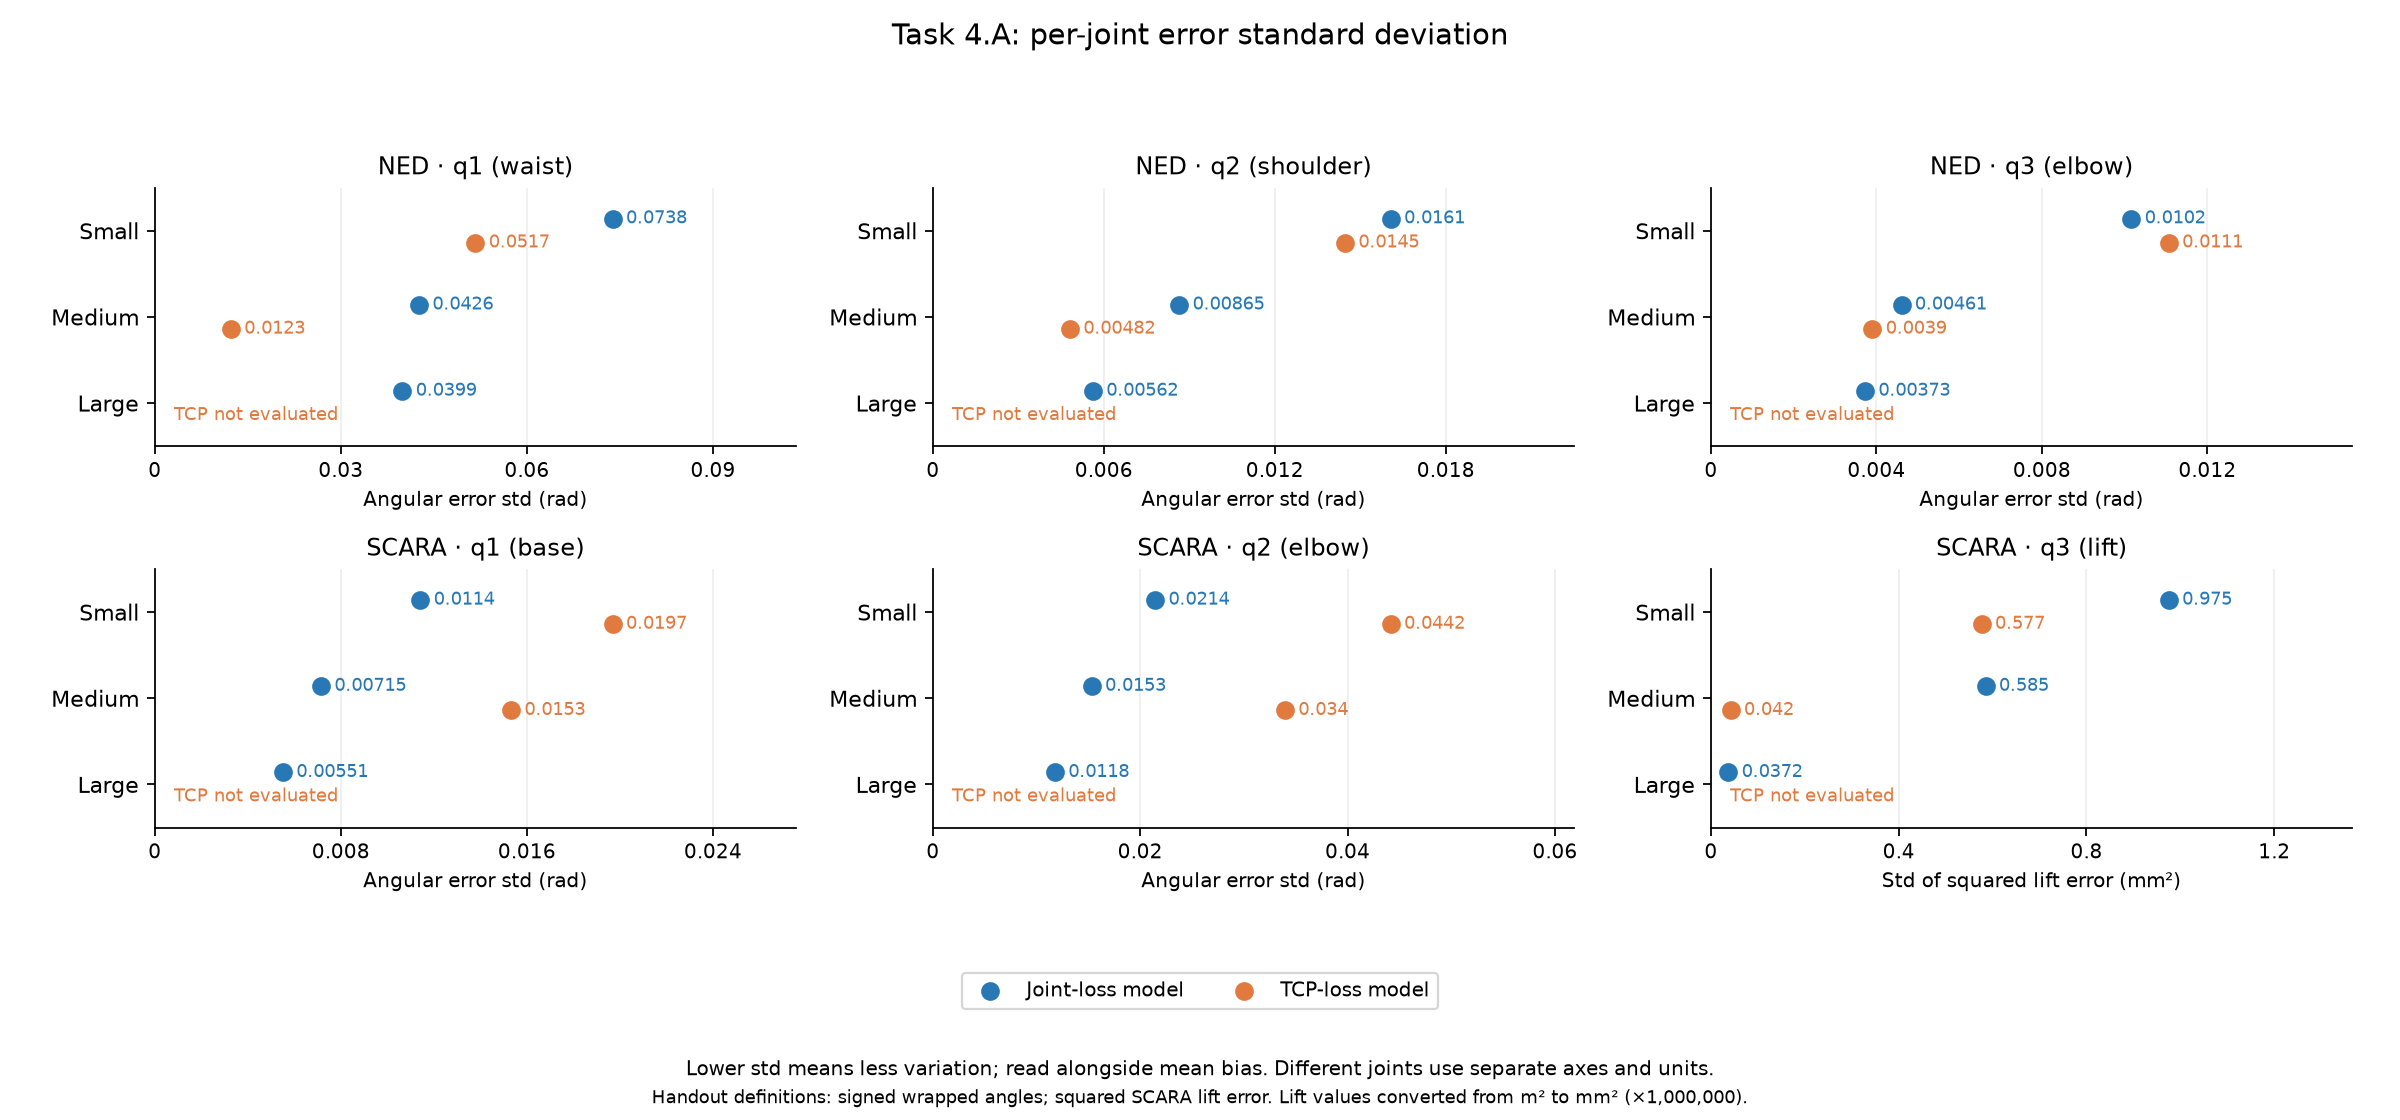
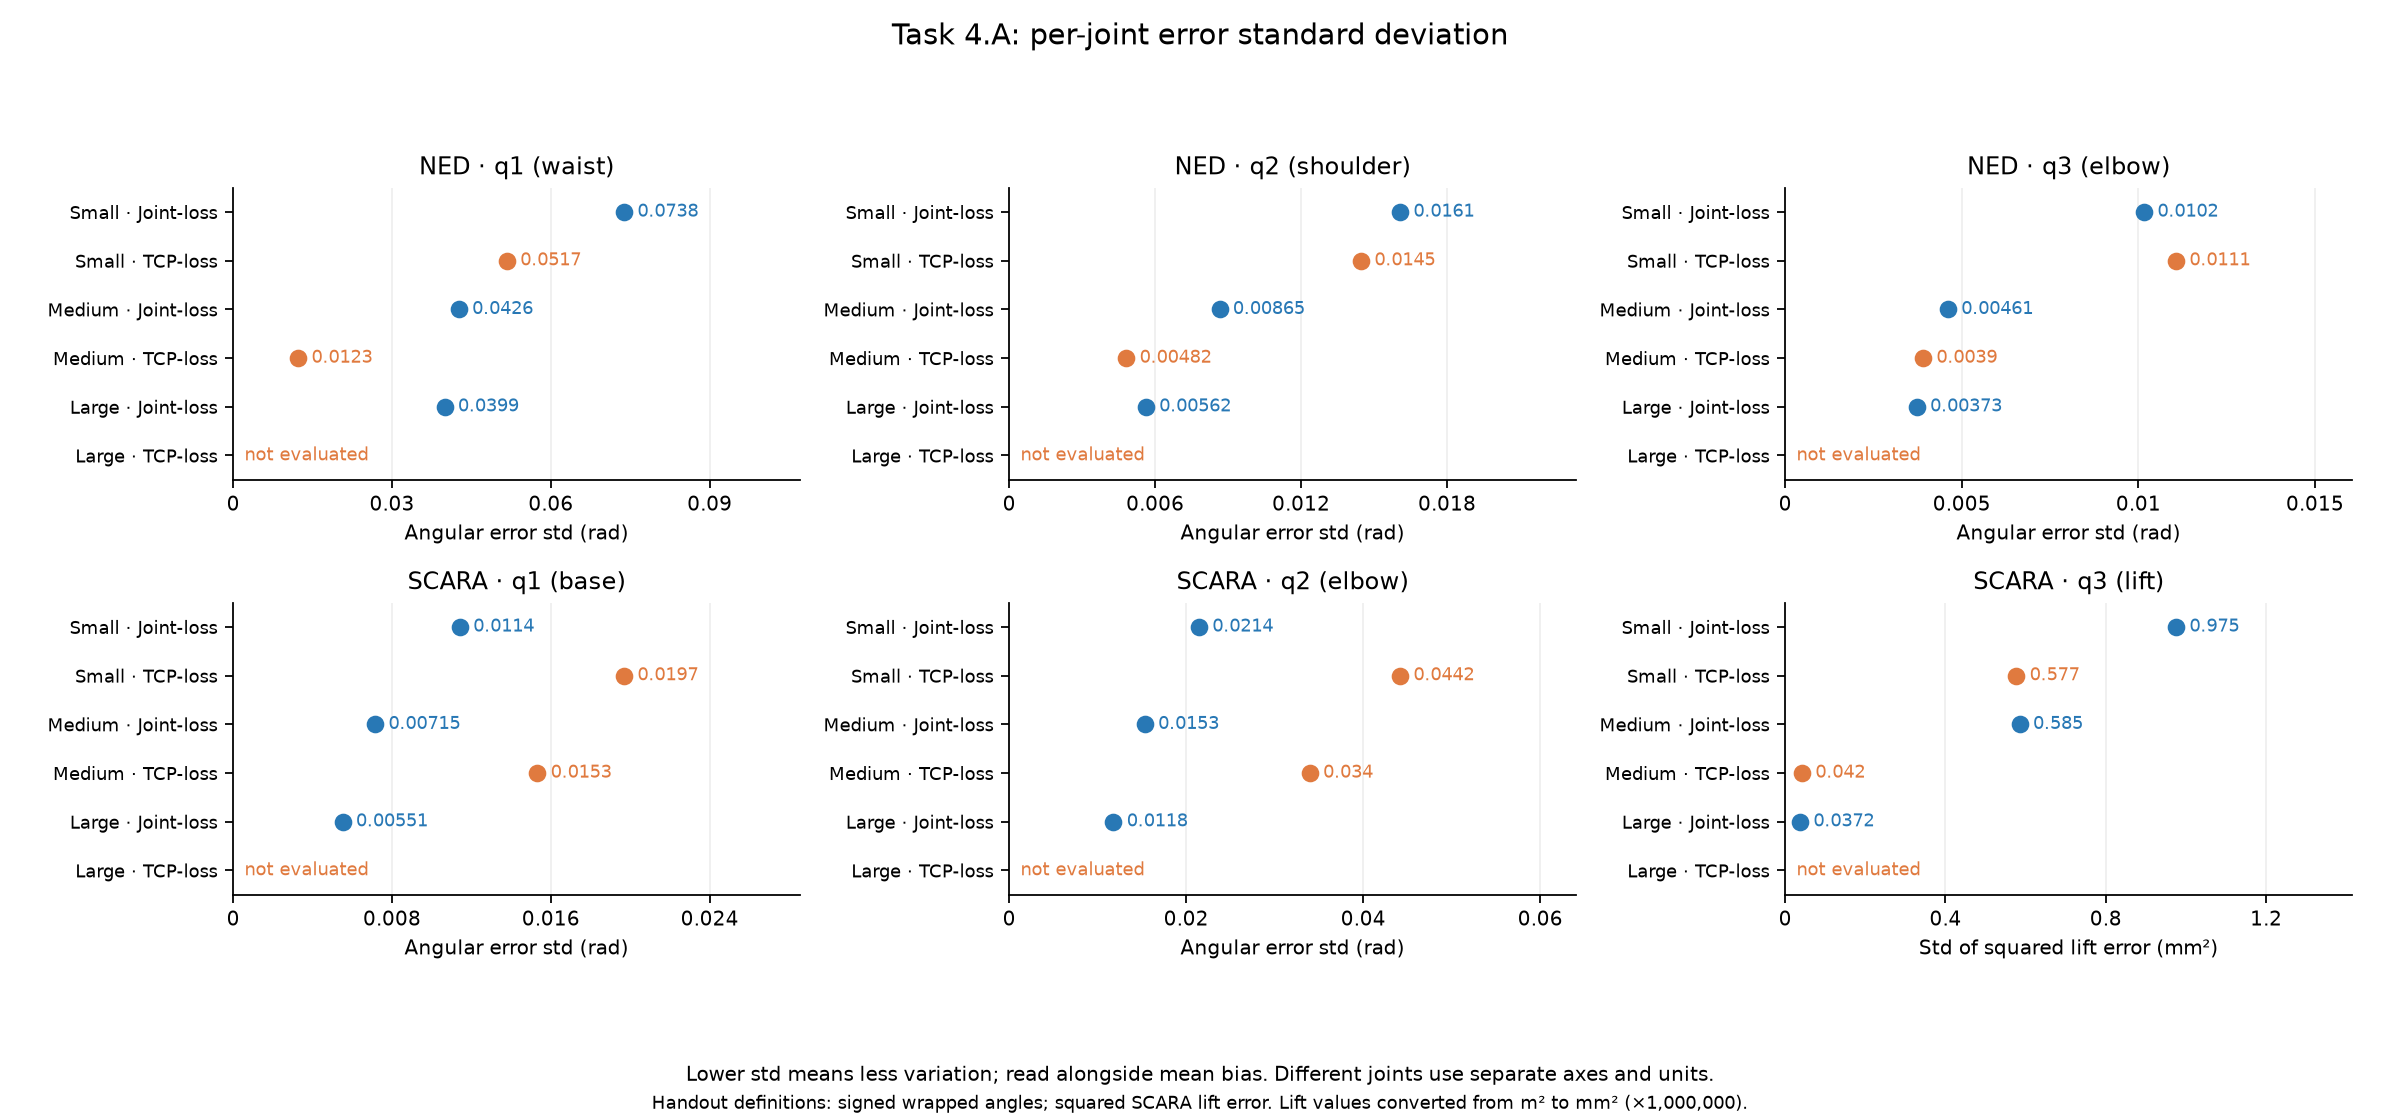
Clarify model labels in joint evaluation plots

diff --git a/scripts/plot_mlp_evaluation.py b/scripts/plot_mlp_evaluation.py
@@ -120,29 +120,59 @@ def joint_statistics(rows, output, metric):
     fig, axes = plt.subplots(len(robots), 3, figsize=(15, 3.5 * len(robots)), squeeze=False)
     names = {"ned": ("waist", "shoulder", "elbow"), "scara": ("base", "elbow", "lift")}
     variants = variants_in(rows)
+    # Give every plotted result its own labelled row. This makes the model size
+    # and training loss explicit beside each value instead of relying on a
+    # colour plus a separate size row to decode the dots.
+    cases = [(size, variant) for size in SIZES for variant, _, _ in variants]
     for i, robot in enumerate(robots):
         for j in range(3):
             ax = axes[i, j]
             subset = [r for r in rows if r["robot"] == robot and r["joint"] == f"q{j+1}"]
-            cases = [(s, robot) for s in SIZES if any(r["size"] == s for r in subset)]
             lift = robot == "scara" and j == 2
-            dot_panel(ax, subset, cases, metric, variants, signed=metric == "mean_error" and not lift,
-                      factor=1e6 if lift else 1, precision=".3g")
-            ax.set_yticks(range(len(cases)), [size.capitalize() for size, _ in cases])
+            lookup = {(r["size"], r["variant"]): r for r in subset}
+            values_seen = [0.0]
+            for row_index, (size, variant) in enumerate(cases):
+                model = lookup.get((size, variant))
+                color = next(color for key, _, color in variants if key == variant)
+                if model is None:
+                    ax.text(0.02, row_index, "not evaluated", transform=ax.get_yaxis_transform(),
+                            color=color, va="center", fontsize=8)
+                    continue
+                value = float(model[metric]) * (1e6 if lift else 1)
+                values_seen.append(value)
+                ax.scatter([value], [row_index], s=48, color=color, zorder=3)
+                ax.annotate(f"{value:.3g}", (value, row_index), xytext=(6, 0),
+                            textcoords="offset points", va="center", color=color, fontsize=8)
+            lo, hi = min(values_seen), max(values_seen)
+            span = max(hi - lo, 1e-6)
+            ax.set_xlim(lo - span * 0.1 if metric == "mean_error" and not lift else 0,
+                        hi + span * 0.45)
+            if metric == "mean_error" and not lift:
+                ax.axvline(0, color="#555555", linewidth=1, linestyle="--")
+            ax.set_yticks(range(len(cases)), [
+                f"{size.capitalize()} · {label.removesuffix(' model')}"
+                for size, variant in cases
+                for key, label, _ in variants if key == variant
+            ])
+            ax.set_ylim(len(cases) - 0.5, -0.5)
+            ax.grid(axis="x", alpha=0.2)
+            ax.xaxis.set_major_locator(MaxNLocator(nbins=4))
+            ax.xaxis.set_major_formatter(FuncFormatter(lambda value, _: f"{value:.3g}"))
+            ax.tick_params(axis="x", labelsize=9)
+            ax.tick_params(axis="y", labelsize=8)
+            ax.spines[["top", "right"]].set_visible(False)
             ax.set_title(f"{robot.upper()} · q{j+1} ({names[robot][j]})", fontsize=11)
             if lift:
                 ax.set_xlabel(("Mean" if metric == "mean_error" else "Std") + " of squared lift error (mm²)", fontsize=9)
             else:
                 ax.set_xlabel("Mean signed angular error (rad)" if metric == "mean_error" else "Angular error std (rad)", fontsize=9)
-    handles, labels = axes[0, 0].get_legend_handles_labels()
-    fig.legend(handles, labels, loc="lower center", bbox_to_anchor=(0.5, 0.09), ncol=len(variants), fontsize=9)
     fig.suptitle("Task 4.A: per-joint " + ("mean error (bias)" if metric == "mean_error" else "error standard deviation"), fontsize=13)
     note = ("Angular means can cancel: near zero means little bias, not necessarily accurate predictions. Read the std graph too."
             if metric == "mean_error" else "Lower std means less variation; read alongside mean bias. Different joints use separate axes and units.")
-    fig.text(0.5, 0.04, note, ha="center", fontsize=9)
-    fig.text(0.5, 0.015, "Handout definitions: signed wrapped angles; squared SCARA lift error. Lift values converted from m² to mm² (×1,000,000).",
+    fig.text(0.5, 0.035, note, ha="center", fontsize=9)
+    fig.text(0.5, 0.01, "Handout definitions: signed wrapped angles; squared SCARA lift error. Lift values converted from m² to mm² (×1,000,000).",
              ha="center", fontsize=8)
-    save(fig, output, bottom=0.18)
+    save(fig, output, bottom=0.12)
 
 
 def accuracy_curves(predictions, output, task):
@@ -225,8 +255,8 @@ def plot_task4a(summary, joints, predictions, output):
         "Blue = joint-loss model; orange = TCP-loss model. Missing checkpoints are not zero errors.\n\n"
         "- [Endpoint mean and standard deviation](comparison.png): closer to the target and variation across test points.\n"
         "- [Endpoint RMSE](tcp_rmse.png): gives larger misses more weight.\n"
-        "- [Per-joint mean errors](joint_mean_errors.png): signed angular bias; SCARA lift uses squared error.\n"
-        "- [Per-joint standard deviations](joint_error_std.png): read with mean bias; do not compare different units.\n"
+        "- [Per-joint mean errors](joint_mean_errors.png): every row names its model size and loss; signed angular bias; SCARA lift uses squared error.\n"
+        "- [Per-joint standard deviations](joint_error_std.png): every row names its model size and loss; read with mean bias and do not compare different units.\n"
         "- [Accuracy curves](tcp_accuracy_curves.png): percentage of test points below each allowed error.\n\n"
         "All test rows are included. FK positions are calculated, not measured in Webots.\n", encoding="utf-8")
 

diff --git a/reports/coursework_evaluation/graphs/task4a/README.md b/reports/coursework_evaluation/graphs/task4a/README.md
@@ -4,8 +4,8 @@ Blue = joint-loss model; orange = TCP-loss model. Missing checkpoints are not ze
 
 - [Endpoint mean and standard deviation](../../task4a_comparison.png): closer to the target and variation across test points.
 - [Endpoint RMSE](tcp_rmse.png): gives larger misses more weight.
-- [Per-joint mean errors](joint_mean_errors.png): signed angular bias; SCARA lift uses squared error.
-- [Per-joint standard deviations](joint_error_std.png): read with mean bias; do not compare different units.
+- [Per-joint mean errors](joint_mean_errors.png): each row names the model size and loss; signed angular bias; SCARA lift uses squared error.
+- [Per-joint standard deviations](joint_error_std.png): each row names the model size and loss; read with mean bias and do not compare different units.
 - [Accuracy curves](tcp_accuracy_curves.png): percentage of test points below each allowed error.
 
 All test rows are included. FK positions are calculated, not measured in Webots.
